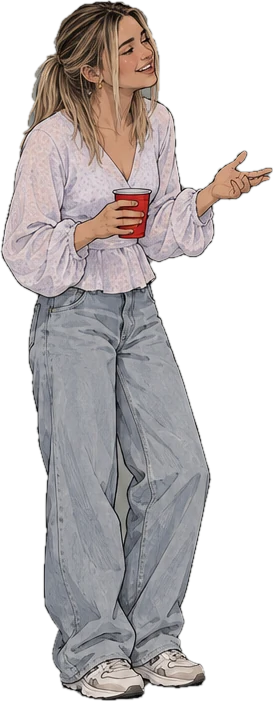
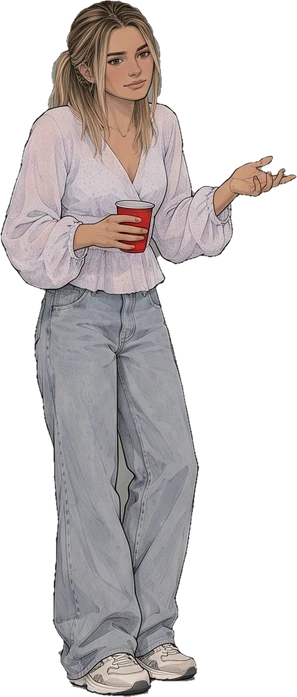
Last call : Cam plus neutre, plan a deux avant les toilettes, « ? » dans la salle d'attente (ce qu'il reste a corriger)

Changed region(s): [[0.0, 0.0, 1.0, 1.0]]

diff --git a/chars.js b/chars.js
@@ -1,1 +1,1 @@
-window.SPRITES = {"amare":{"refH":662,"poses":{"angry":[293,649],"explaining":[293,647],"holding":[241,655],"listen":[284,662],"surprised":[282,659],"thinking":[278,658]}},"brooke":{"refH":709,"poses":{"drunk_happy":[231,699],"drunk_listen":[252,707],"drunk_point":[226,698],"drunk_sad":[240,695],"drunk_talk":[290,703],"pee":[236,693],"pee_look":[220,698],"pee_relief":[225,700],"texting":[222,703],"thinking":[206,709]}},"cam":{"refH":709,"poses":{"amused":[273,701],"awkward":[215,700],"flirty":[209,706],"listen":[244,699],"tipsy_laugh":[220,703],"worried":[184,709]}},"candy":{"refH":662,"poses":{"angry":[293,649],"explaining":[293,647],"holding":[241,655],"listen":[284,662],"surprised":[282,659],"thinking":[278,658]}},"isa_noir":{"refH":692,"poses":{"angry":[259,689],"explaining":[302,692],"holding":[205,676],"listen":[235,684],"surprised":[256,681],"thinking":[230,685]}},"isa_nuit":{"refH":692,"poses":{"angry":[259,689],"explaining":[302,692],"holding":[205,676],"listen":[235,684],"surprised":[256,681],"thinking":[230,685]}},"isa_or":{"refH":692,"poses":{"angry":[259,689],"explaining":[302,692],"holding":[205,676],"listen":[235,684],"surprised":[256,681],"thinking":[230,685]}},"james":{"refH":707,"poses":{"angry":[259,681],"explaining":[276,688],"holding":[215,689],"listen":[279,706],"surprised":[271,700],"thinking":[227,707]}},"james_noir":{"refH":707,"poses":{"angry":[259,681],"explaining":[276,688],"holding":[215,689],"listen":[279,706],"surprised":[271,700],"thinking":[227,707]}},"justin":{"refH":704,"poses":{"angry":[268,685],"explaining":[268,693],"hit":[266,640],"holding":[220,694],"ko":[315,210],"listen":[266,695],"phone_call":[270,698],"phone_shock":[235,700],"punch":[300,644],"surprised":[264,699],"texting":[247,698],"thinking":[242,704]}},"justin_b":{"refH":704,"poses":{"angry":[268,685],"explaining":[268,693],"hit":[266,640],"holding":[220,694],"ko":[315,210],"listen":[266,695],"phone_call":[270,698],"phone_shock":[235,700],"punch":[300,644],"surprised":[264,699],"texting":[247,698],"thinking":[242,704]}},"justin_bar":{"refH":717,"poses":{"drunk_flirt":[211,715],"drunk_happy":[217,715],"drunk_listen":[247,713],"drunk_sad":[212,717],"drunk_talk":[279,712],"texting":[204,716]}},"melissa":{"refH":692,"poses":{"angry":[259,689],"explaining":[302,692],"holding":[205,676],"listen":[235,684],"surprised":[256,681],"thinking":[230,685]}},"ruby":{"refH":692,"poses":{"angry":[259,689],"explaining":[302,692],"holding":[205,676],"listen":[235,684],"surprised":[256,681],"thinking":[230,685]}},"suit":{"refH":711,"poses":{"adjust":[195,710],"angry":[218,711],"listen":[221,708],"offer":[237,705],"pee":[224,693]}}};
+window.SPRITES = {"amare":{"refH":662,"poses":{"angry":[293,649],"explaining":[293,647],"holding":[241,655],"listen":[284,662],"surprised":[282,659],"thinking":[278,658]}},"brooke":{"refH":709,"poses":{"drunk_happy":[231,699],"drunk_listen":[252,707],"drunk_point":[226,698],"drunk_sad":[240,695],"drunk_talk":[290,703],"pee":[236,693],"pee_look":[220,698],"pee_relief":[225,700],"texting":[222,703],"thinking":[206,709]}},"cam":{"refH":706,"poses":{"amused":[297,697],"awkward":[215,700],"explaining":[274,703],"flirty":[209,706],"listen":[246,701],"sip":[240,705],"thinking":[224,705],"tipsy_laugh":[220,703],"worried":[214,695]}},"candy":{"refH":662,"poses":{"angry":[293,649],"explaining":[293,647],"holding":[241,655],"listen":[284,662],"surprised":[282,659],"thinking":[278,658]}},"isa_noir":{"refH":692,"poses":{"angry":[259,689],"explaining":[302,692],"holding":[205,676],"listen":[235,684],"surprised":[256,681],"thinking":[230,685]}},"isa_nuit":{"refH":692,"poses":{"angry":[259,689],"explaining":[302,692],"holding":[205,676],"listen":[235,684],"surprised":[256,681],"thinking":[230,685]}},"isa_or":{"refH":692,"poses":{"angry":[259,689],"explaining":[302,692],"holding":[205,676],"listen":[235,684],"surprised":[256,681],"thinking":[230,685]}},"james":{"refH":707,"poses":{"angry":[259,681],"explaining":[276,688],"holding":[215,689],"listen":[279,706],"surprised":[271,700],"thinking":[227,707]}},"james_noir":{"refH":707,"poses":{"angry":[259,681],"explaining":[276,688],"holding":[215,689],"listen":[279,706],"surprised":[271,700],"thinking":[227,707]}},"justin":{"refH":704,"poses":{"angry":[268,685],"explaining":[268,693],"hit":[266,640],"holding":[220,694],"ko":[315,210],"listen":[266,695],"phone_call":[270,698],"phone_shock":[235,700],"punch":[300,644],"surprised":[264,699],"texting":[247,698],"thinking":[242,704]}},"justin_b":{"refH":704,"poses":{"angry":[268,685],"explaining":[268,693],"hit":[266,640],"holding":[220,694],"ko":[315,210],"listen":[266,695],"phone_call":[270,698],"phone_shock":[235,700],"punch":[300,644],"surprised":[264,699],"texting":[247,698],"thinking":[242,704]}},"justin_bar":{"refH":717,"poses":{"drunk_flirt":[211,715],"drunk_happy":[217,715],"drunk_listen":[247,713],"drunk_sad":[212,717],"drunk_talk":[279,712],"texting":[204,716]}},"melissa":{"refH":692,"poses":{"angry":[259,689],"explaining":[302,692],"holding":[205,676],"listen":[235,684],"surprised":[256,681],"thinking":[230,685]}},"ruby":{"refH":692,"poses":{"angry":[259,689],"explaining":[302,692],"holding":[205,676],"listen":[235,684],"surprised":[256,681],"thinking":[230,685]}},"suit":{"refH":711,"poses":{"adjust":[195,710],"angry":[218,711],"listen":[221,708],"offer":[237,705],"pee":[224,693]}}};

diff --git a/index.html b/index.html
@@ -140,6 +140,14 @@ body { font-family: var(--ui); color: var(--ink); -webkit-tap-highlight-color: t
 .seats .on .dot { background: #34c759; }
 .seats img { height: 44em; max-width: 100%; object-fit: contain; }
 #solo { position: absolute; left: 50%; bottom: 7%; transform: translateX(-50%); padding: .7em 1.6em; background: #e8e8ed; color: #1d1d1f; white-space: nowrap; }
+/* the story's known problems, behind a "?" in the waiting room's corner (tap = open, tap anywhere = close) */
+#todoBtn { position: absolute; top: 2.2%; right: 4%; font: inherit; width: 8em; height: 8em; border: 0; border-radius: 50%; background: #e8e8ed; color: #1d1d1f; display: grid; place-items: center; cursor: pointer; padding: 0; }
+#todoBtn span { font-size: 3.6em; font-weight: 600; }
+#todoCard { position: absolute; inset: 0; z-index: 40; background: rgba(8,6,12,.55); display: grid; place-items: center; cursor: pointer; font-family: -apple-system, BlinkMacSystemFont, system-ui, 'Segoe UI', sans-serif; }
+.todo { width: 72%; box-sizing: border-box; background: #fff; color: #1d1d1f; border-radius: 2.4em; padding: 3.2em 3.4em; }
+.todo b { font-size: 2.8em; font-weight: 600; }
+.todo ul { margin: 1.4em 0 0; padding-left: 1.3em; }
+.todo li { font-size: 2.5em; line-height: 1.4; }
 body.watch #solo { display: none !important; }
 #gallery, #charView, #newChar { justify-content: flex-start; padding: 13em 5% 6em; overflow-y: auto; }
 .prompt { background: #1c1c1e; border-radius: 2em; padding: 2em 9em 2em 2.2em; }
@@ -239,7 +247,8 @@ body.watch #choices button, body.watch .looks button { pointer-events: none; }
   </div>
   <div id="video3d" class="card menu" hidden><div class="frame16"><iframe id="yt" title="3D" referrerpolicy="strict-origin-when-cross-origin" allow="autoplay; encrypted-media; fullscreen; picture-in-picture" allowfullscreen></iframe></div></div>
   <div id="lobby" class="card menu" hidden><div class="names" id="names"></div></div>
-  <div id="wait" class="card menu" hidden><div class="seats" id="seatList"></div><button class="pill" id="solo" type="button">Jouer seul</button></div>
+  <div id="wait" class="card menu" hidden><div class="seats" id="seatList"></div><button class="pill" id="solo" type="button">Jouer seul</button><button id="todoBtn" type="button" hidden aria-label="What to fix"><span>?</span></button></div>
+  <div id="todoCard" hidden><div class="todo"><b id="todoTitle"></b><ul id="todoList"></ul></div></div>
   <div id="gallery" class="card menu" hidden>
     <div class="grid3" id="galList"></div>
   </div>
@@ -289,10 +298,10 @@ body.watch #choices button, body.watch .looks button { pointer-events: none; }
   <div id="qrCard" hidden><div id="qrBox"></div></div>
 </div>
 
-<script src="chars.js?v=20261023163237"></script>
-<script src="story.js?v=20261023163237"></script>
-<script src="play.js?v=20261023163237"></script>
-<script src="bar.js?v=20261023163237"></script>
+<script src="chars.js?v=20261023165403"></script>
+<script src="story.js?v=20261023165403"></script>
+<script src="play.js?v=20261023165403"></script>
+<script src="bar.js?v=20261023165403"></script>
 <script>
 const $ = (s) => document.querySelector(s);
 const stage = $('#stage'), world = $('#world'), bgImg = $('#bgimg'), backEl = $('#backdrop'), castEl = $('#cast'), frontEl = $('#front'),
@@ -876,7 +885,7 @@ function halt() {
 function endSplit() {
   if (split) for (const g of Object.values(split.ghosts)) clearTimeout(g.t);
   split = null; laneNow = null; texts = {}; textsEl.innerHTML = ''; farEl.innerHTML = ''; slateEl.hidden = true; stopSfx();
-  asides.clear();
+  asides.clear(); $('#todoCard').hidden = true;
 }
 
 function begin(id = state.story) {
@@ -907,6 +916,7 @@ function openWait(id) {
 }
 function renderWait() {
   show('#wait');
+  $('#todoBtn').hidden = !story().todo;
   const list = $('#seatList'); list.innerHTML = '';
   for (const k of seatsOf()) {
     const s = state.seats[k], b = document.createElement('button'); b.type = 'button';
@@ -927,6 +937,15 @@ function playSolo() {
   clearTimeout(takeSeat.t); begin();
 }
 $('#solo').onclick = (e) => { e.stopPropagation(); playSolo(); };
+$('#todoBtn').onclick = (e) => {
+  e.stopPropagation();
+  const t = story().todo; if (!t) return;
+  $('#todoTitle').textContent = t.title;
+  $('#todoList').innerHTML = '';
+  for (const it of t.items) { const li = document.createElement('li'); li.textContent = it; $('#todoList').appendChild(li); }
+  $('#todoCard').hidden = false;
+};
+$('#todoCard').onclick = (e) => { e.stopPropagation(); $('#todoCard').hidden = true; };
 function takeSeat(k, id, n) {
   if (!waitRoom || !seatsOf().includes(k)) return;
   const s = state.seats[k];
@@ -1029,7 +1048,7 @@ function roomCode() {
 // the game's version (tools/site.py stamps it). Two phones on different versions can't play one story together, and
 // GitHub keeps the old one in a phone's cache ~10 min: a phone that hears of a newer version reloads to it, between
 // stories (never in the middle of one)
-const BUILD = '20261023163237';
+const BUILD = '20261023165403';
 function newer(v) {
   if (BUILD === 'dev' || !v || v === 'dev' || v <= BUILD || newer.done) return;
   if (!['#who', '#hub', '#lobby', '#wait', '#end'].includes(screen)) return;

diff --git a/bar.js b/bar.js
@@ -32,15 +32,16 @@ window.POSE_ALIAS = {
     listen: 'drunk_listen', explaining: 'drunk_talk', holding: 'drunk_sad', angry: 'drunk_talk', surprised: 'drunk_listen',
     thinking: 'drunk_listen', drunk_point: 'drunk_talk', phone_shock: 'texting',
   },
-  cam: { thinking: 'listen', holding: 'worried', surprised: 'awkward', angry: 'worried', explaining: 'amused' },
+  cam: { holding: 'worried', surprised: 'awkward', angry: 'worried' },
   suit: { shush: 'adjust', explaining: 'offer', holding: 'listen', surprised: 'listen', thinking: 'listen', pee_talk: 'pee' },
 };
-// Cam: her own sheet (bar, 23/10), in place of Ruby's
-FACE.cam = { listen: 'r', amused: 'r', tipsy_laugh: 'r', awkward: 'r', flirty: 'l', worried: 'r' };
+// Cam: her own sheets (23/10), in place of Ruby's. She looked like she was always flirting: the neutral sheet (listen,
+// explaining, thinking, worried, amused, sip) is her base; the first one keeps only her laugh, her awkward and her flirt
+FACE.cam = { listen: 'r', explaining: 'r', thinking: 'r', worried: 'r', amused: 'r', sip: 'r', tipsy_laugh: 'r', awkward: 'r', flirty: 'l' };
 // the gallery shows the new Justin (the old sheet only plays in the older stories)
 GALLERY[GALLERY.findIndex((g) => g.sprite === 'justin')] = { sprite: 'justin_bar', name: 'Justin', src: 'perso_justin', ref: ['justin_bar'] };
 GALLERY.splice(1, 0, { sprite: 'brooke', name: 'Brooke', src: 'perso_brooke', ref: ['brooke_bar', 'brooke_toilettes'] },
-  { sprite: 'cam', name: 'Cam', src: 'perso_cam', ref: ['cam_bar'] });
+  { sprite: 'cam', name: 'Cam', src: 'perso_cam', ref: ['cam_neutral', 'cam_bar'] });
 
 // ---------- decors, rectangles only (decor px) ----------
 const R = (x, y, w, h, color, more) => ({ x, y, w, h, color, ...more });
@@ -155,10 +156,10 @@ const hush = (ms = 900) => ({ hush: ms });
 // when Brooke's text arrives)
 const counter = [
   { slate: 'Brooke heads to the bathroom. It’s just you and Cam now.' },
-  scene('bar', { pa: 'drunk_listen', cam: 'listen' }),
+  scene('bar', { pa: 'drunk_listen', cam: 'sip' }),
   two('pa', 'cam'),
   { fade: 'in', ms: 500 },
-  hush(1100),   // Brooke's empty spot between them
+  hush(1100),   // Brooke's empty spot between them, Cam takes a sip
   one('cam'),
   say('cam', 'thinking', 'What was he gonna say?', { to: 'pa' }),
   one('pa'),
@@ -388,7 +389,7 @@ const bathroom = [
 // Justin, twenty minutes later at the counter, reads what Brooke sent (or didn't)
 const justinAfter = (f) => [
   { fade: 'out', ms: 600 },
-  scene('bar', { pa: 'texting', cam: 'listen' }),
+  scene('bar', { pa: 'texting', cam: 'sip' }),
   two('pa', 'cam'),
   { fade: 'in', ms: 600 },
   { caption: 'Twenty minutes later' },
@@ -490,12 +491,13 @@ window.BAR = [
   { aside: { pa: true } }, face({ pa: 'l' }), hush(700),
   two('cam', 'pb'), hush(1600),
   say('cam', 'amused', '…What?', { to: 'pb' }),
-  one('pb'), hush(900),
+  hush(900),
+  // the last two, Brooke and Cam together in the frame
   say('pb', 'drunk_flirt', 'Cam. You’re just…', { to: 'cam' }),
   hush(1000),
   say('pb', 'drunk_flirt', 'Yeah. Just…', { to: 'cam' }),
-  one('cam'), { poses: { cam: 'awkward' } }, hush(1600),
-  one('pb'), { poses: { pb: 'drunk_sad' } }, hush(1000),
+  { poses: { cam: 'awkward' } }, hush(1600),
+  { poses: { pb: 'drunk_sad' } }, hush(1000),
   say('pb', 'drunk_sad', '…I gotta pee.', { to: 'cam' }),
   { exit: 'pb' }, { aside: { pa: false } },
   // from here to the end, each one plays his own scene on his own phone and only sees what his character sees;
@@ -517,3 +519,5 @@ BAR.cast = {
 };
 BAR.words = { TITLE: (f) => f.title || 'Last call' };
 BAR.ui = { choosing: 'is choosing', choices: 'Your choices', again: 'Play again' };
+// what's known to be off, behind the "?" of the waiting room (so testers know)
+BAR.todo = { title: 'What to fix:', items: ['Pacing wrong', 'Emotion wrong', 'Cringe end interaction'] };
